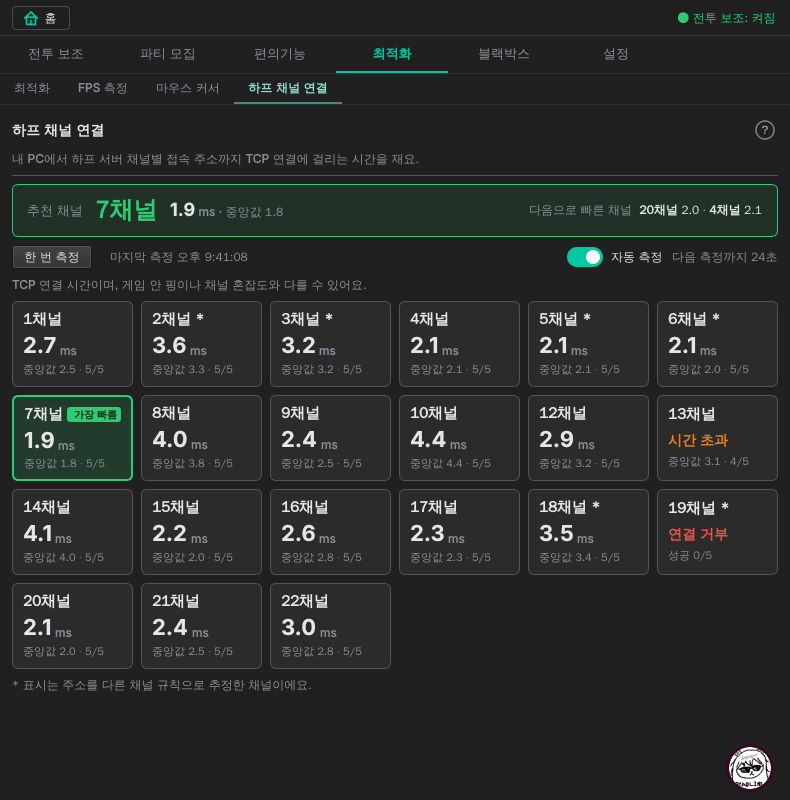
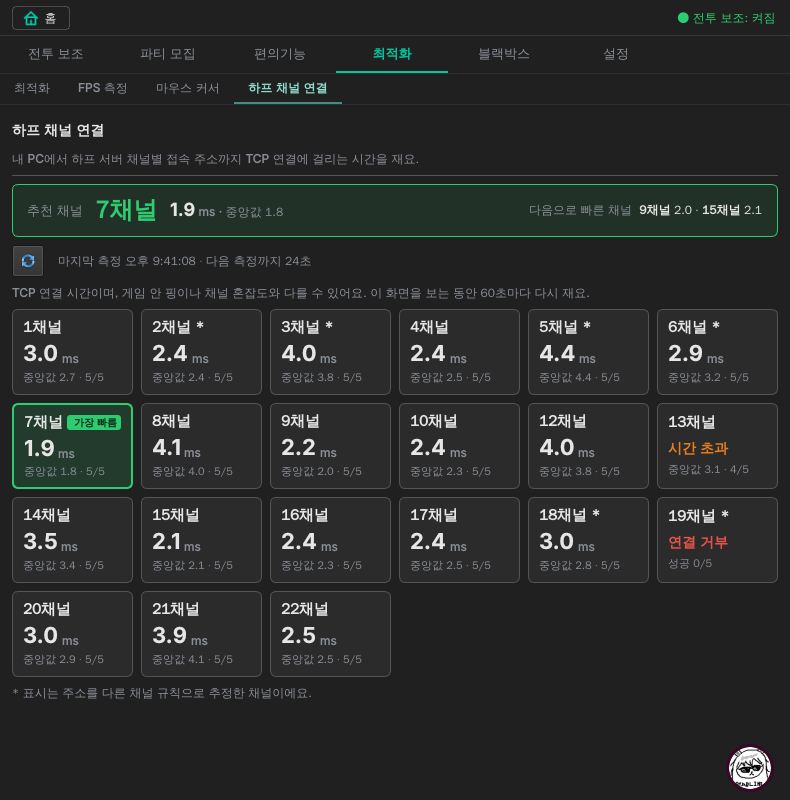
하프 채널 연결: 탭 열면 측정·보는 동안 60초 간격, 도움말·주소 확인일 제거(최종 목업)
Claude-Session: https://claude.ai/code/session_012tR8ejYmFbfiysA27exRqd

Changed region(s): [[0.0, 0.2812, 1.0, 0.875], [0.8203, 0.25, 0.9114, 0.2812], [0.9418, 0.1562, 0.9722, 0.1875]]

diff --git a/docs/status.md b/docs/status.md
@@ -106,7 +106,7 @@
 
 - **하프 채널 연결 시간 기획(2026-11-03, 미구현)**: 사용자 기획 전달 → [명세](harp-channel-tcp-spec.md)·렌더 목업 3장(측정 전·중·결과).
   최적화 › `하프 채널 연결`, 1~22채널(11 제외) 21줄, `한 번 측정`·`자동 측정`(기본 꺼짐), 최근·중앙값(성공 5회)·상태(시간 초과/연결 거부 구분)·성공 수, 추정 주소 `*`·주소 상자.
-  주소: 211.218.233.31~34·39~41 × 11020/11021/11023(직접 관찰 15·패턴 추정 6). 화면 결정(11-03): 박스형 6칸×4줄·채널 이름 크게·가장 빠른 칸 전체 초록 강조, 제목 아래 `추천 채널` 상자(가장 빠른 채널 + 다음 2개), 주소 상자·선택 표시 없음. 결정 대기(명세 5절): 게임 서버 반복 접속 성격·자동 간격·공개 범위, `?` 도움말, 주소 확인일 표시.
+  주소: 211.218.233.31~34·39~41 × 11020/11021/11023(직접 관찰 15·패턴 추정 6). 화면 결정(11-03): 박스형 6칸×4줄·채널 이름 크게·가장 빠른 칸 전체 초록 강조, 제목 아래 `추천 채널` 상자(가장 빠른 채널 + 다음 2개), 주소 상자·선택 표시 없음. 결정(11-03): 탭 열면 바로 측정·보는 동안 60초 간격(스위치 없음, 새로고침 아이콘), 도움말·주소 확인일 없음. 남은 결정: 공개 범위.
 - **0.39.1 = 제품 동작을 0.38.1로 되돌림(2026-11-03 사용자 결정)** — 로컬 검증. 근거: 0.39.0에서 커서 꼬리 끊김·CPU 상승, 자동 찾기 끔/트레이에서도 끊김, 같은 PC 0.38.1은 부드러움.
   ① 0.39.0 제품 커밋 6개를 `git revert`(이력 보존, 태그·히스토리 손대지 않음): 2c6ba9a·e90ce8f는 각각, 835e5d9·69fce05·ea74092·6fc03ee는 한 커밋으로 묶임(메시지에 목록).
      `src`·`tests`·`packaging`·`scripts`가 v0.38.1과 같음(차이 0) — 예외: 릴리즈 노트(v0.39.0 섹션 유지 + v0.39.1 섹션), release_checks(버전 0.39.1·호환 테스트 추가). docs는 그대로.

diff --git a/docs/harp-channel-tcp-spec.md b/docs/harp-channel-tcp-spec.md
@@ -26,6 +26,18 @@
       - 결과: `추천 채널  7채널(크게, 정상색)  1.9 ms · 중앙값 1.8`, 오른쪽에 `다음으로 빠른 채널  20채널 2.0 · 4채널 2.1`(2개)
       - **추천 기준 = 가장 빠름 기준과 같다**: 중앙값, 실패 제외, 0.1ms 동점이면 번호가 낮은 채널을 크게 보여준다.
         - 사용자 결정으로 '추천' 단어를 쓴다. 근거는 잰 연결 시간뿐이며, 혼잡도나 게임 핑으로 추천하지 않는다(상시 안내 유지).
+  - **사용자 결정 3차(2026-11-03) — `final-measuring.png`, `final-result.png`. 2·3절과 5절보다 우선한다.**
+    - **측정 방식(경매장 시세 조회처럼)**
+      - 탭을 열면 바로 한 번 측정한다.
+      - **이 화면을 보는 동안 60초 간격**으로 다시 잰다(한 회차가 끝난 뒤 60초).
+      - 다른 탭으로 가거나, 앱이 최소화·트레이로 숨거나, 전투 보조를 일시정지하면 멈춘다. 다시 보면 바로 한 번 잰다.
+      - 3절의 '처음 열어도 자동으로 접속하지 않음'과 `자동 측정` 스위치는 **없앤다**.
+    - **위 줄**
+      - 다른 시세 화면과 같은 **새로고침 아이콘 버튼**(`calculator_sidebar.refresh_button`, 툴팁 `지금 다시 측정`)
+      - 상태: `● 측정 중 · 9 / 21` 또는 `마지막 측정 오후 9:41:08 · 다음 측정까지 24초`
+    - 상시 안내: `TCP 연결 시간이며, 게임 안 핑이나 채널 혼잡도와 다를 수 있어요. 이 화면을 보는 동안 60초마다 다시 재요.`
+    - **`?` 도움말 없음**, **주소 확인일 표시 없음**(주소를 화면에 보여주지 않으므로).
+    - 5절 1항(반복 접속) 정리: 화면을 볼 때만 60초 간격이라 분당 약 21번 이하. **공개 범위(제작자만 / 모두)는 결정 대기.**
 
 ## 1. 주소 (2026-11-03 사용자 직접 확인)
 
